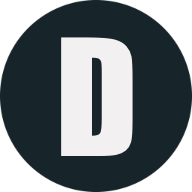
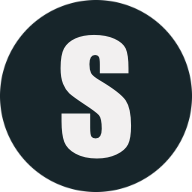
change to SAY

Changed region(s): [[0.3125, 0.1562, 0.7188, 0.8438], [0.625, 0.2188, 0.6562, 0.25]]

diff --git a/gatsby-config.js b/gatsby-config.js
@@ -4,9 +4,9 @@ require('dotenv').config({
 
 module.exports = {
   siteMetadata: {
-    title: `DYO APP`,
-    description: `Design Your Own Application`,
-    author: `Polychronis Papadakis`,
+    title: `SAY`,
+    description: `Design & Develop Your Own Application`,
+    author: `Kato`,
   },
   plugins: [
     `gatsby-transformer-sharp`,

diff --git a/src/containers/welcome/content.ts b/src/containers/welcome/content.ts
@@ -1,6 +1,6 @@
 const content = {
-  tagline: 'Design & Develop Your Own Application',
-  title: 'DYO APP',
+  tagline: 'Design, Develop & Deliver',
+  title: 'SAY',
   subtitle: 'Solution Architect, Tailor-Made System, Web & Mobile App.',
 };
 
